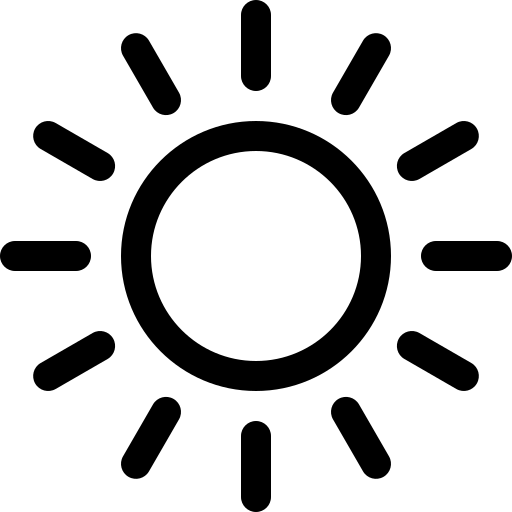
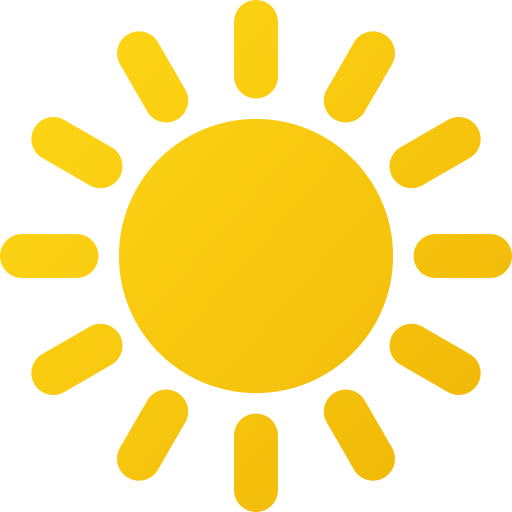
Fixed dark/light theme switching logic

diff --git a/index.html b/index.html
@@ -12,6 +12,8 @@
 
 <body>
     <main id="body" class="light">
+        <img id="sun" src="/img/sun.png" onclick="switchTheme(1)">
+        <img id="moon" src="/img/moon.png" onclick="switchTheme(0)">
         <div class="flex-container">
             <div id="left-column" class="column">
                 <h1>Larissa Yumi Ohashi</h1>
@@ -64,8 +66,7 @@
                 </section>
             </div>
             <div id="right-column" class="column">
-                <img id="sun" src="/img/sun.png" onclick="switchTheme(0)">
-                <img id="moon" src="/img/moon.png" onclick="switchTheme(1)">
+                
                 <section>
                     <h2>RESUMO</h2>
                     <p>Estudante no curso de Bacharelado em Ciência e Tecnologia da UFABC e apaixonada por programação, busco uma oportunidade de estágio que me permita aplicar os conhecimentos adquiridos ao longo da graduação e desenvolver novas habilidades na área de desenvolvimento de software em um ambiente profissional.</p>
@@ -114,13 +115,13 @@
 
         function switchTheme(theme) {
             if (theme == 0) {
-                document.getElementById("sun").style.display = "none";
-                document.getElementById("moon").style.display = "block";
+                document.getElementById("sun").style.display = "block";
+                document.getElementById("moon").style.display = "none";
                 document.getElementById("body").classList.remove("light");
                 document.getElementById("body").classList.add("dark");
             } else {
-                document.getElementById("moon").style.display = "none";
-                document.getElementById("sun").style.display = "block";
+                document.getElementById("moon").style.display = "block";
+                document.getElementById("sun").style.display = "none";
                 document.getElementById("body").classList.remove("dark");
                 document.getElementById("body").classList.add("light");
             }

diff --git a/css/style.css b/css/style.css
@@ -5,6 +5,14 @@
     line-height: 25px;
 }
 
+.light {
+    background-color: #fff;
+}
+
+.dark {
+    background-color: #2e2e2e;
+}
+
 h3.projetos {
     margin-bottom: 10px;
 }
@@ -24,8 +32,9 @@ ul {
 
 img {
     width: 30px;
-    position: relative;
-    float: right;
+    position: fixed;
+    top: 25px;
+    right: 25px;
     cursor: pointer;
 }
 
@@ -109,17 +118,25 @@ img {
     text-align: justify;
 }
 
-#moon {
+#sun {
     display: none;
 }
 
 @media (max-width: 900px) {
-    h1 {
+    .light h1 {
         color: #002659;
+    }
+
+    .dark h1 {
+        color: #3f86e4;
     }
     
     .flex-container {
         display: block;
+    }
+
+    .dark {
+        background-color: #2e2e2e;
     }
 
     .light #left-column {
@@ -151,7 +168,7 @@ img {
 
     .dark #left-column h2 {
         background-color: #2e2e2e;
-        color: #fff;
+        color: #3f86e4;
     }
 
     #left-column h2 {
